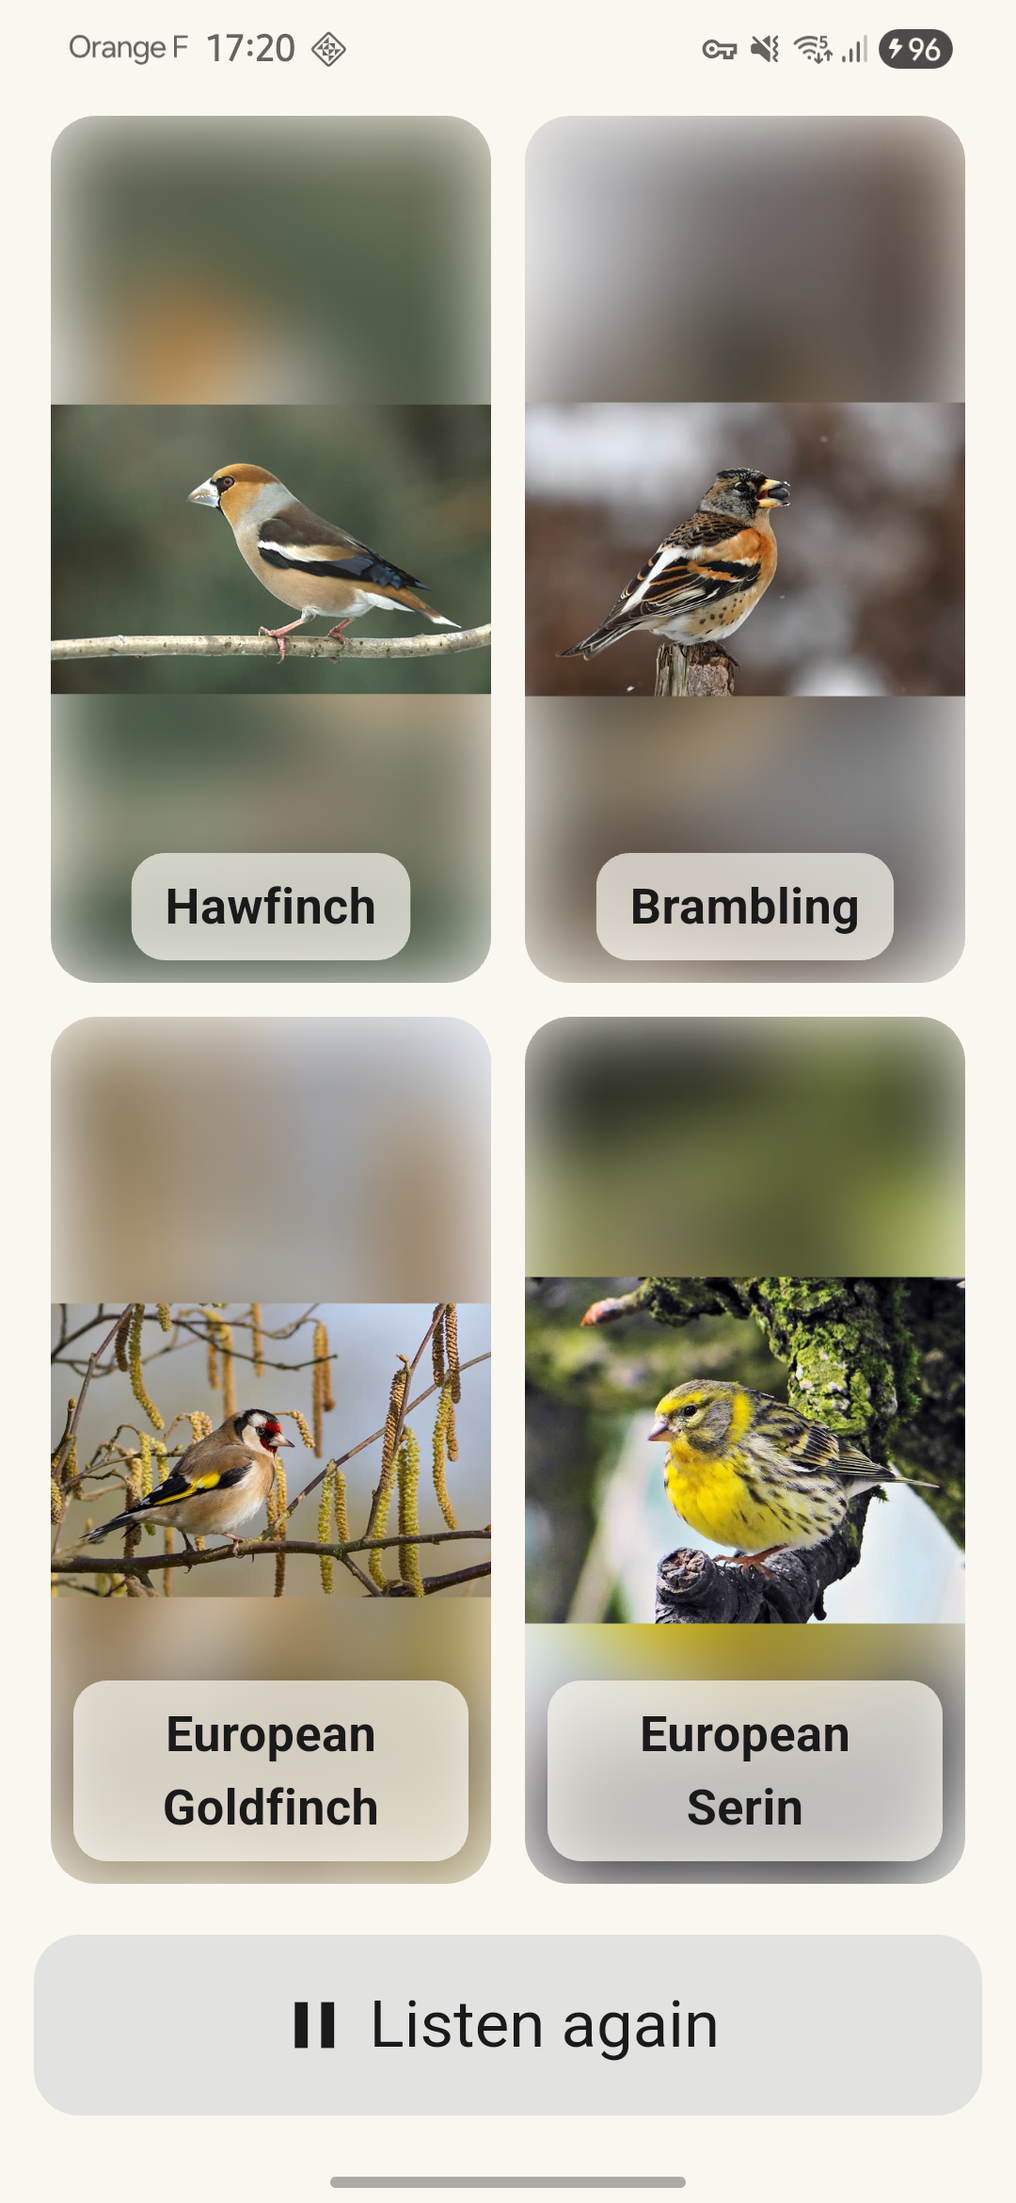
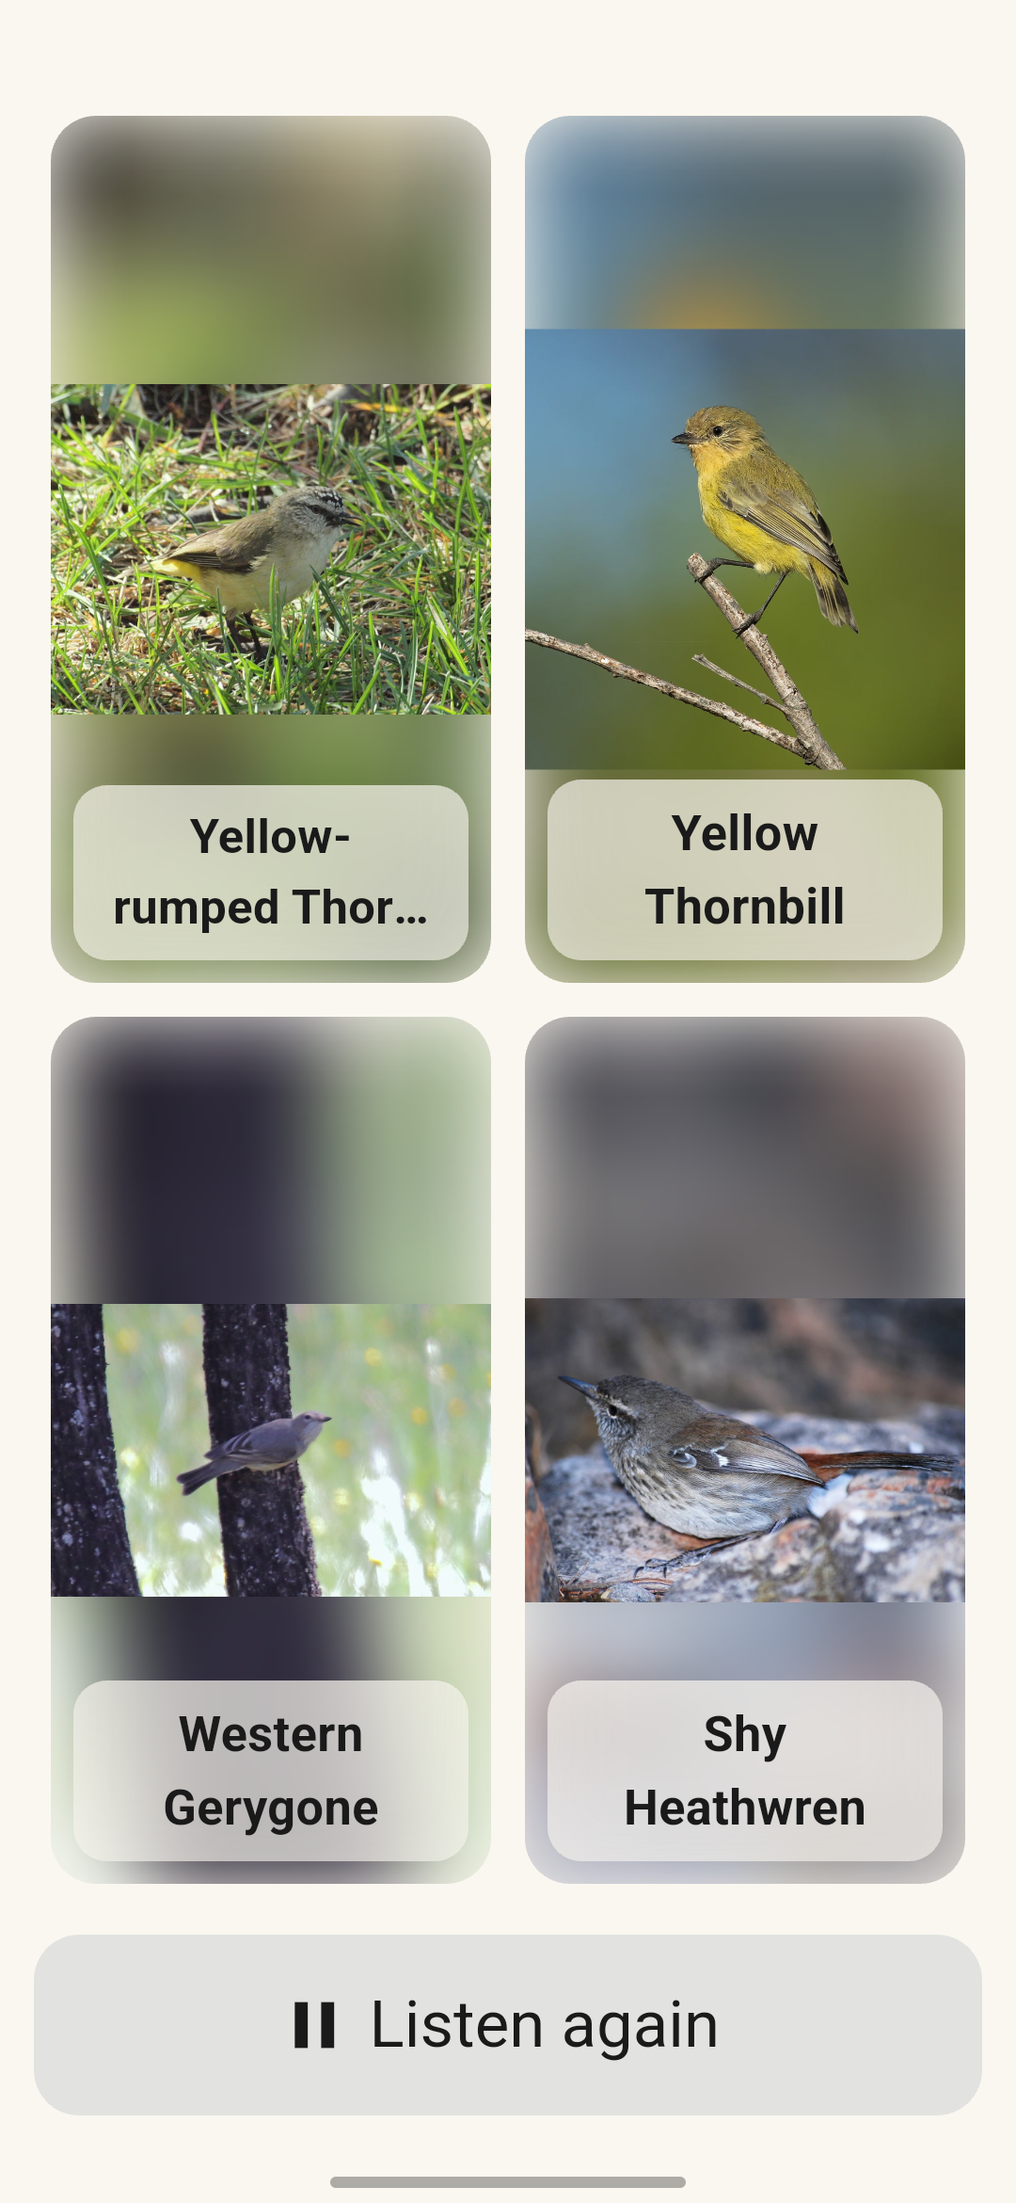
Version 1.2.0+5; README rewritten for 1.2 (new areas, 2,630 species, missing-species map, card badges, Art n/6, Duplicates, friends' stats, switch account, new sources) with new screenshots (Australian quiz, badged card, collection, missing-species map, boosters); store listing and What's new 1.2.0 

diff --git a/README.md b/README.md
@@ -9,7 +9,7 @@
 </p>
 
 <p align="center">
-  Android · version 1.1.0 · in closed testing on
+  Android · version 1.2.0 · in closed testing on
   <a href="https://play.google.com/store/apps/details?id=com.nathanprovin.earlybird">Google Play</a>
 </p>
 
@@ -20,24 +20,49 @@ around you, in season**. To stop the alarm, you guess which bird is singing. Gue
 you win its trading card. Guess wrong and you can listen to all four birds side by side
 before moving on. Little by little, you learn the songs of your region.
 
-Free, no ads, no trackers. English, French, German and Spanish.
+**2,630 species** on five areas: Europe, North America, Mexico and Central America, North Africa
+and the Middle East, Australia and New Zealand. Free, no ads, no trackers. English, French,
+German and Spanish.
+
+### New in 1.2
+
+- **Three new areas:** Australia and New Zealand (seven Australian bioregions, the two main New
+  Zealand islands), North Africa and the Middle East, Mexico and Central America. The catalog
+  grows from 1,292 to 2,630 species, with emus, lyrebirds, kiwis, kookaburras, kōkako,
+  motmots, toucans and wheatears.
+- **Missing-species map** (Early Bird Plus): a radar button on the region map colours every
+  cell by the number of species you still lack there, from marine blue (none) to firebrick red
+  (the most), on a log scale with a legend. Tap a cell for "58 / 100 collected · 42 missing".
+- **Card badges:** three glass badges down the photo's left side give the bird's group,
+  habitat (forest, wetland, desert, towns…) and diet (insects, fruit, fish, nectar…). Tap one
+  to slide out its name.
+- **Art n/6:** up to six reviewed photos per species; a card says which one it shows, and a
+  duplicate is now the same bird, rarity *and* photo.
+- **Collection:** a Duplicates view, Newest and Quality % sorts, fuller piles that open into
+  their copies.
+- **Friends:** a friend's profile shows their Cards / Species / Regions; trades show full
+  cards, with a Collected / Duplicates switch for both collections.
+- **Switch account** from the account page (your collection is saved online first).
 
 ## Screenshots
 
 <p align="center">
   <img src="store/screenshots/1-quiz.png" alt="The alarm quiz: four photos, guess the bird" width="180">
-  <img src="store/screenshots/2-collection.png" alt="The collection" width="180">
-  <img src="store/screenshots/3-legendary.png" alt="A Legendary card, full screen" width="180">
-  <img src="store/screenshots/4-booster.png" alt="Training: a pile of boosters" width="180">
-  <img src="store/screenshots/5-alarms.png" alt="The alarms" width="180">
+  <img src="store/screenshots/2-card.png" alt="A card with its group, habitat and diet badges and its Art number" width="180">
+  <img src="store/screenshots/3-collection.png" alt="The collection" width="180">
+  <img src="store/screenshots/4-map.png" alt="The missing-species map: Iberia and North Africa, coloured by species still missing" width="180">
+  <img src="store/screenshots/5-booster.png" alt="Training: a pile of boosters" width="180">
+  <img src="store/screenshots/6-alarms.png" alt="The alarms" width="180">
 </p>
 
 ## Features
 
 **The alarm**
-- **Local, seasonal birds:** 1,292 species across Europe and North America, from free
-  recordings (xeno-canto, iNaturalist). Pick your region on an offline world map, or use your
-  position (it never leaves the phone).
+- **Local, seasonal birds:** 2,630 species across Europe, North America, Mexico and Central
+  America, North Africa and the Middle East, Australia and New Zealand, from free recordings
+  (xeno-canto, iNaturalist, sound archives through GBIF, Wikimedia Commons). Pick your region
+  on an offline world map, which opens on your continent, or use your position (it never
+  leaves the phone).
 - **A gentle wake-up:** the song rises from silence over a minute, then the phone vibrates. The
   quiz shows over the lock screen. A backup alarm rings if anything goes wrong.
 - **Four difficulties:** Easy (songs of common birds), Medium (adds calls), Hard (every
@@ -50,25 +75,32 @@ Free, no ads, no trackers. English, French, German and Spanish.
 - **Six rarities**, from Common to Legendary, plus **Shiny** cards: leucistic or melanistic
   birds, about one in a thousand cards. Each has its own frame material, card stock and reveal.
 - **Every card is a specimen:** real statistics of the species (weight, wingspan, length,
-  migration distance) rolled for that card, a quality score, one of up to five photos of the
-  bird, a **bird group icon**, and the recording it was won with.
+  migration distance) rolled for that card, a quality score, one of up to six photos of the
+  bird (**Art n/6**), and the recording it was won with.
+- **Badges:** the bird's group, habitat and diet, as glass badges on the photo; tap one to read
+  its name.
 - **Training:** a pile of free boosters (one every 15 minutes) to practise between alarms.
 - **Achievements and series:** 18 achievements in five tiers, and series by family, habitat,
   voice and theme. Each completed tier or series gives a card of guaranteed rarity.
-- Collection views by region or species, search, sort and filters; the species' Wikipedia
-  article in your language; share a card as an image.
+- Collection views by region, species or **duplicates**, search, sorts (newest, quality,
+  rarity…) and filters; piles of copies that open on tap; the species' Wikipedia article in
+  your language; share a card as an image.
+- **Missing-species map** (Plus): every cell of the region map coloured by the species you
+  still lack there, with a legend; tap a cell for its counts.
 
 **With friends (optional account)**
 - **Cloud backup** of the collection: an anonymous account by default, Google or email sign-in
   to keep it across phones. Account deletion in the app or on the web.
 - **Profile:** a unique @name, an avatar cut from one of your cards, a hall of fame of three
-  cards, and your stats.
-- **Friends:** add by @name, invite with a link, and **trade cards at a distance**. Both sides
-  offer, both agree, and the swap happens on both phones.
+  cards, and your stats (also shown on a friend's profile).
+- **Friends:** add by @name, invite with a link, browse their collection and **trade cards at a
+  distance**. Both sides offer full cards, both agree, and the swap happens on both phones.
+- **Switch account:** the collection is saved to the current account, then the phone loads
+  the other one's.
 - Bonus codes for events and testers.
 
-**Support:** optional tips and **Early Bird Plus** (a booster every minute), through Google
-Play. Nothing random is ever sold.
+**Support:** optional tips and **Early Bird Plus** (a booster every minute and the
+missing-species map), through Google Play. Nothing random is ever sold.
 
 ## Repository layout
 
@@ -78,7 +110,9 @@ Play. Nothing random is ever sold.
 | `app/firestore.rules` | Firestore security rules (accounts, profiles, friends, trades); `firestore_rules_check.py` tests them live |
 | `pipeline/build.py` | Builds the catalog: regions, species, photos, recordings, stats, series; publishes it |
 | `pipeline/series.md` | The series (editable): families, habitats, voices, themes, and their rewards |
-| `pipeline/variants.py`, `shiny.py` | Card photo variants and Shiny photos (contact sheets, picks) |
+| `pipeline/variants.py`, `shiny.py` | Card photo variants (Commons, then reviewed iNaturalist photos; rejects in `photo_rejects.csv`) and Shiny photos |
+| `pipeline/names.csv`, `overrides.csv` | Hand-made English names and species overrides |
+| `pipeline/sweep_oc.py` | Free-recording coverage sweep of a new area, before it is added |
 | `pipeline/family_icons.py` | Bird group icons from PhyloPic silhouettes |
 | `pipeline/world_map.py` | The offline world map of the region picker (Natural Earth) |
 | `pipeline/store_assets.py` | Store icon and feature graphic |
@@ -92,8 +126,12 @@ Play. Nothing random is ever sold.
   photos and keeps a small pile of upcoming songs, so **alarms always ring offline**.
 - **Firebase** (Auth and Firestore, free plan, security rules only) holds per-player data:
   backup, profile, friends, trades, codes. It is never on the alarm's path.
+- **Heatmap data:** `cells_species.json` lists each cell's card numbers; the app counts the
+  missing ones itself, on the phone.
 - Building: `flutter build appbundle --release` in `app/`; test builds with developer tools:
-  `flutter build apk --profile --dart-define=DEV_TOOLS=true`. The pipeline is Python
+  `flutter build apk --profile --dart-define=DEV_TOOLS=true`, plus
+  `--dart-define=CATALOG_URL=http://localhost:8765/v1/` to try a local catalog before it is
+  published. The pipeline is Python
   (stdlib) and ffmpeg.
 
 ## Data and licences
@@ -102,10 +140,10 @@ Play. Nothing random is ever sold.
 |---|---|---|
 | Presence, seasons, rarity | GBIF.org occurrence data, eBird where dense (monthly counts only) | CC0, CC BY or CC BY-NC, per dataset |
 | Names | Wikidata, GBIF | CC0 |
-| Photos | Wikimedia Commons, iNaturalist | CC0, public domain, CC BY, CC BY-SA (author and licence on each card) |
-| Recordings | xeno-canto, iNaturalist | CC0, CC BY, CC BY-SA (author and licence on each card) |
-| Card statistics | AVONET (Tobias et al. 2022, *Ecology Letters*), Wikidata | CC BY 4.0, CC0 |
-| Bird group icons | PhyloPic | CC0, Public Domain Mark |
+| Photos | Wikimedia Commons, iNaturalist (research-grade, reviewed by hand) | CC0, public domain, CC BY, CC BY-SA (author and licence on each card) |
+| Recordings | xeno-canto, iNaturalist, NatureMapr, Borror Lab, Animal Sound Archive (through GBIF), Wikimedia Commons | CC0, CC BY, CC BY-SA (author and licence on each card) |
+| Card statistics, habitat and diet | AVONET (Tobias et al. 2022, *Ecology Letters*), Wikidata, Wikipedia (body length) | CC BY 4.0, CC0, CC BY-SA |
+| Bird group and badge icons | PhyloPic, Material Icons, drawn for the app | CC0, Public Domain Mark, Apache 2.0 |
 | World map | Natural Earth | Public domain |
 
 The app shows each photo's and recording's author and licence on its card (ⓘ) and in

diff --git a/memory/store-listing.md b/memory/store-listing.md
@@ -1,6 +1,6 @@
 # Early Bird Alarm — Google Play listing & declarations
 
-Ready to paste into Play Console (Iteration 4b). Keep in sync with the app. Updated 2026-11-03 (store title, descriptions rewritten for conversion); before: 2026-11-01
+Ready to paste into Play Console (Iteration 4b). Keep in sync with the app. Updated 2026-11-20 (1.2: species count and new areas, card badges and missing-species map bullets, What's new 1.2.0); 2026-11-03 (store title, descriptions rewritten for conversion); before: 2026-11-01
 (trading, series rewards, 4 languages, world map, search, onboarding).
 
 ## Basics
@@ -44,10 +44,12 @@ HOW IT WORKS
 In a few weeks you'll recognise the birds singing around you.
 
 COLLECT
-• 1,700+ species of Europe and North America with real vocalizations and real stats: weight, wingspan, length, migration distance
+• 2,600+ species from Europe, North America, Mexico and Central America, North Africa and the Middle East, Australia and New Zealand, with real vocalizations and real stats: weight, wingspan, length, migration distance
+• Every card shows the bird's group, habitat and diet, and which of its photos you found
 • 5 card rarities, from Common to Legendary
 • Series to complete and achievements, each rewarded with a card of guaranteed rarity
 • Twitch Zone: a free booster every 15 min to train your ear
+• Early Bird Plus: a map of the species you are still missing, cell by cell
 
 SHOW OFF AND TRADE
 • Pulled a Legendary? Share the card with your friends
@@ -81,10 +83,12 @@ FONCTIONNEMENT
 En quelques semaines, les chants des oiseaux de ta région n'auront plus de secrets pour toi.
 
 COLLECTER
-• Plus de 1 700 espèces d'Europe et d'Amérique du Nord, avec leurs vrais chants et cris et leurs vraies stats : poids, envergure, longueur, distance de migration
+• Plus de 2 600 espèces d'Europe, d'Amérique du Nord, du Mexique et d'Amérique centrale, d'Afrique du Nord et du Moyen-Orient, d'Australie et de Nouvelle-Zélande, avec leurs vrais chants et cris et leurs vraies stats : poids, envergure, longueur, distance de migration
+• Sur chaque carte : le groupe de l'oiseau, son habitat, son régime et la photo que tu as trouvée
 • 5 raretés de cartes, de Commune à Légendaire
 • Des séries à compléter et des succès, chacun récompensé par une carte de rareté garantie
 • Zone Cocheur : un booster gratuit toutes les 15 min pour t'entraîner
+• Early Bird Plus : la carte des espèces qui te manquent encore, case par case
 
 ÉCHANGER
 • Une Légendaire ? Partage-la avec tes amis
@@ -117,10 +121,12 @@ SO FUNKTIONIERT'S
 In ein paar Wochen erkennst du die Vögel, die um dich herum singen.
 
 SAMMELN
-• Über 1.700 Arten aus Europa und Nordamerika mit echten Stimmen und echten Werten: Gewicht, Spannweite, Länge, Zugstrecke
+• Über 2.600 Arten aus Europa, Nordamerika, Mexiko und Mittelamerika, Nordafrika und dem Nahen Osten, Australien und Neuseeland mit echten Stimmen und echten Werten: Gewicht, Spannweite, Länge, Zugstrecke
+• Auf jeder Karte: Vogelgruppe, Lebensraum, Nahrung und welches seiner Fotos du gefunden hast
 • 5 Kartenseltenheiten, von Häufig bis Legendär
 • Serien zum Vervollständigen und Erfolge, jeweils belohnt mit einer Karte garantierter Seltenheit
 • Twitcher-Zone: alle 15 Min. ein kostenloser Booster, um dein Gehör zu trainieren
+• Early Bird Plus: eine Karte der Arten, die dir noch fehlen, Feld für Feld
 
 ZEIGEN UND TAUSCHEN
 • Eine Legendäre gezogen? Teile die Karte mit deinen Freunden
@@ -153,10 +159,12 @@ CÓMO FUNCIONA
 En pocas semanas reconocerás las aves que cantan a tu alrededor.
 
 COLECCIONA
-• Más de 1.700 especies de Europa y Norteamérica con cantos y reclamos reales y estadísticas reales: peso, envergadura, longitud, distancia de migración
+• Más de 2.600 especies de Europa, Norteamérica, México y Centroamérica, el norte de África y Oriente Medio, Australia y Nueva Zelanda, con cantos y reclamos reales y estadísticas reales: peso, envergadura, longitud, distancia de migración
+• En cada carta: el grupo del ave, su hábitat, su dieta y cuál de sus fotos has encontrado
 • 5 rarezas de cartas, de Común a Legendaria
 • Series para completar y logros, cada uno con una carta de rareza garantizada
 • Zona Pajarera: un sobre gratis cada 15 min para entrenar el oído
+• Early Bird Plus: un mapa de las especies que aún te faltan, casilla a casilla
 
 PRESUME E INTERCAMBIA
 • ¿Te ha salido una Legendaria? Comparte la carta con tus amigos
@@ -178,6 +186,43 @@ GRATIS. SIN ANUNCIOS. SIN CUENTA. SIN RASTREO.
 En español, inglés, francés y alemán.
 
 Para pajareros, amantes de la naturaleza, coleccionistas y cualquiera que esté harto de su alarma de siempre.
+
+## What's new — 1.2.0 (≤ 500 chars each)
+### EN
+New in 1.2
+• 3 new areas: Australia and New Zealand, North Africa and the Middle East, Mexico and Central America. 2,630 species in all
+• Missing-species map (Early Bird Plus): see where the birds you lack live
+• Card badges: group, habitat and diet. Up to 6 photos per species to find
+• Collection: Duplicates view, Newest and Quality sorts
+• Friends: their stats on their profile, trades with full cards
+• Switch account
+
+### FR
+Nouveau dans la 1.2
+• 3 nouvelles zones : Australie et Nouvelle-Zélande, Afrique du Nord et Moyen-Orient, Mexique et Amérique centrale. 2 630 espèces en tout
+• Carte des espèces manquantes (Early Bird Plus) : vois où vivent les oiseaux qui te manquent
+• Badges sur les cartes : groupe, habitat et régime. Jusqu'à 6 photos par espèce à trouver
+• Collection : vue Doublons, tris Récentes et Qualité
+• Amis : leurs stats sur leur profil, échanges avec les cartes entières
+• Changer de compte
+
+### DE
+Neu in 1.2
+• 3 neue Gebiete: Australien und Neuseeland, Nordafrika und Naher Osten, Mexiko und Mittelamerika. Insgesamt 2.630 Arten
+• Karte der fehlenden Arten (Early Bird Plus): sieh, wo die Vögel leben, die dir fehlen
+• Kartenabzeichen: Gruppe, Lebensraum und Nahrung. Bis zu 6 Fotos pro Art zu finden
+• Sammlung: Ansicht Doppelte, Sortierung nach Neueste und Qualität
+• Freunde: ihre Werte im Profil, Tausch mit ganzen Karten
+• Konto wechseln
+
+### ES
+Novedades de la 1.2
+• 3 zonas nuevas: Australia y Nueva Zelanda, norte de África y Oriente Medio, México y Centroamérica. 2.630 especies en total
+• Mapa de especies que faltan (Early Bird Plus): mira dónde viven las aves que te faltan
+• Insignias en las cartas: grupo, hábitat y dieta. Hasta 6 fotos por especie por encontrar
+• Colección: vista Duplicados, orden por Recientes y Calidad
+• Amigos: sus estadísticas en su perfil, intercambios con cartas enteras
+• Cambiar de cuenta
 
 ## Data safety form
 (Rewritten 2026-11-11 for the 1.1 accounts; before 1.1 the answer was "no data collected".)
@@ -218,8 +263,11 @@ No violence, sexual content, profanity or gambling (no purchases; boosters are f
 ## Licenses to mention (also in the app's Credits)
 GBIF.org (occurrences, only monthly counts used), Wikidata (CC0), Wikimedia Commons photos (per-photo licenses, credited on each card), xeno-canto recordings (CC0 / BY / BY-SA; a few BY-NC / BY-NC-SA, **to replace before any monetization**), AVONET (Tobias et al. 2022, CC BY 4.0), Wikipedia, Natural Earth (public domain).
 
-## Screenshots (phone, 1080 × 2340, `store/screenshots/`, English, Gull theme; 2026-11-01)
-Three only (the user's choice), also shown in the README:
-1. `1-quiz.png`: the alarm quiz, 4 bird photos with names (finches).
-2. `2-collection.png`: the collection grid (Legendary, Epic and Rare cards with the Bird rarity stars).
-3. `3-legendary.png`: a Legendary card full screen (Bar-tailed Godwit, ×2 pill, Share / Info / Wikipedia).
+## Screenshots (phone, 1080 × 2340, `store/screenshots/`, English, Gull theme; 2026-11-20 for 1.2)
+Taken on the S22 (dev build, test collection), status bar painted over with the app background. Also in the README:
+1. `1-quiz.png`: the quiz, 4 Australian birds (thornbills, gerygone, heathwren).
+2. `2-card.png`: a Rare Yellow Thornbill card, the habitat badge's label slid out ("Habitat · Shrubland"), Art 1/2.
+3. `3-collection.png`: the collection grid (a Shiny Leucistic chaffinch, Legendary cards with badges and Art).
+4. `4-map.png`: the missing-species map (Plus) over Iberia and North Africa, legend at the top.
+5. `5-booster.png`: Training, a pile of boosters, Plus badge.
+6. `6-alarms.png`: the alarms list (2026-11-04).

diff --git a/memory/roadmap.md b/memory/roadmap.md
@@ -35,8 +35,8 @@ Updates during the closed test don't reset its clock. Testers' emails stay in th
 - [x] Collection pass (user, 2026-11-17): Duplicates view (species owned more than once; count = spare cards), Newest and Quality % sorts, a fuller pile (3 rarity-tinted cards), a pile opens into its copies (top card flies, the others are dealt out), no ×N above a full card, grid ×N 20 % smaller with a black outline. Rejected: group / habitat / diet filters, Shiny / new toggles, region won in
 - [x] Switch account on the account page (collection saved to the account and required online, then the phone emptied). Trade: full cards with names, a Collected / Duplicates switch for my cards and the friend's, offers open whole on tap
 - [x] `firestore.rules` deployed 2026-11-17: friends read each other's card chunks (user OK)
-- [ ] Phone check with a dev build (user's OK: the S22 runs the Play build): AU / MX / MENA regions, an alarm, a card and its icon, offline fallback, heatmap
-- [ ] README, store listing and "What's new" (4 languages, new regions + species count); version **1.2.0+5**; **publish the catalog only once 1.2 is live** (R2 is shared by every version)
+- [x] Phone check with a dev build: Melbourne cell, 1,000 drawn cards, badges, heatmap (validated by the user, 2026-11-20)
+- [x] README (1.2 rewrite, new screenshots), store listing and "What's new" (4 languages, 2,630 species, new areas), version **1.2.0+5**, signed bundle built (2026-11-20). Then: **publish the catalog only once 1.2 is live** (R2 is shared by every version)
 
 ## Later
 - **Challenges between friends** (the "coming soon" button on a friend's profile).
